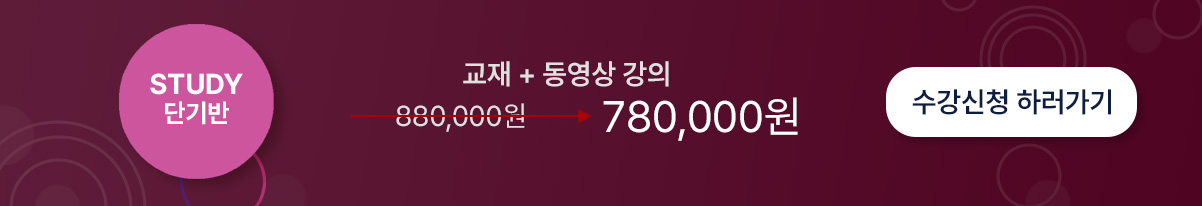
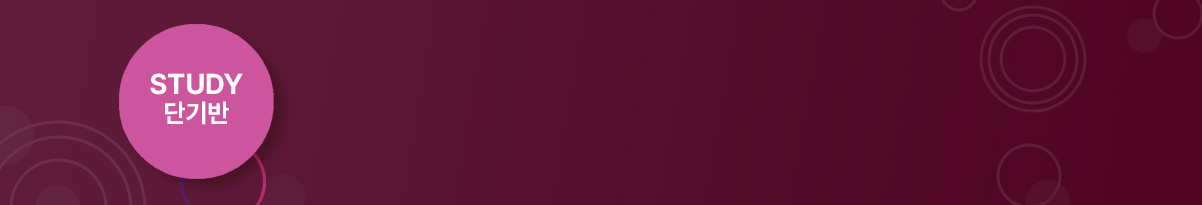
배너 수정

diff --git a/src/assets/scss/_partial/_apply_class.scss b/src/assets/scss/_partial/_apply_class.scss
@@ -1,78 +1,144 @@
-.apply-class{
-  .banners{
+.apply-class {
+  .banners {
     margin-top: 20px;
-    img{
+    img {
       width: 100%;
     }
-    ul>li{
-      a{
+    ul > li {
+      .class-banner {
+        position: relative;
         display: block;
-        line-height: 0;
+        color: #ffffff;
+        img {
+          width: 100%;
+          object-fit: contain;
+        }
+        .title {
+          position: absolute;
+          top: 20%;
+          left: 44%;
+          font-size: 11px;
+          font-weight: 600;
+        }
+        .price {
+          position: absolute;
+          top: 50%;
+          left: 30%;
+          .as-is {
+            font-size: 12px;
+            position: relative;
+            &:before {
+              content: "";
+              display: inline-block;
+              position: absolute;
+              width: 150%;
+              top: 50%;
+              left: -20%;
+              border-bottom: 1px solid red;
+            }
+            &:after {
+              content: "";
+              display: inline-block;
+              position: absolute;
+              top: calc(50% - 3px);
+              right: -45%;
+              width: 15px;
+              height: 5px;
+              border-top: 4px solid transparent;
+              border-bottom: 4px solid transparent;
+              border-left: 10px solid red;
+              box-sizing: border-box;
+            }
+          }
+          .to-be {
+            position: absolute;
+            left: 140%;
+            bottom: -17%;
+            font-size: 15px;
+            word-break: keep-all;
+          }
+        }
+        .btn-link {
+          position: absolute;
+          display: inline-flex;
+          border-radius: 30px;
+          width: 80px;
+          height: 23px;
+          align-items: center;
+          justify-content: center;
+          background-color: #ffffff;
+          font-size: 10px;
+          font-weight: 600;
+          right: 3%;
+          top: 50%;
+          transform: translateY(-50%);
+          color: #0d1e42;
+        }
       }
     }
   }
-  .table-default{
+  .table-default {
     margin-bottom: 10px;
-    .cell-phone{
+    .cell-phone {
       display: flex;
       align-items: center;
-      .input-wrap{
+      .input-wrap {
         flex: 1 1 25%;
-        input{
+        input {
           width: 100%;
         }
       }
-      .dash{
+      .dash {
         padding: 2px;
       }
     }
-    .class-period{
-      label{
+    .class-period {
+      label {
         display: block;
         padding-left: 0;
       }
     }
-    .price{
+    .price {
       display: flex;
       align-items: center;
       justify-content: space-between;
-      .discounted{
-        input{
+      .discounted {
+        input {
           color: $red;
         }
       }
     }
-    .select-certify{
+    .select-certify {
       display: flex;
       gap: 5px;
-      select{
+      select {
         flex: 1 1 auto;
       }
     }
-    .order-list{
+    .order-list {
       margin-left: 15px;
-      li{
+      li {
         text-indent: -15px;
         line-height: 1.4;
         margin-bottom: 5px;
       }
     }
   }
-  .term-text{
+  .term-text {
     text-align: center;
     word-break: keep-all;
     font-size: 16px;
-    line-height:1.4;
+    line-height: 1.4;
   }
-  .contract{
+  .contract {
     margin: 10px 0 20px;
     text-align: center;
-    .agree{
+    .agree {
       margin: 10px 0;
       font-weight: 700;
     }
   }
-  .notice-important{
+  .notice-important {
     color: $red;
   }
 }

diff --git a/assets/style/style_mobile.css b/assets/style/style_mobile.css
@@ -1318,9 +1318,75 @@ footer .info {
 .apply-class .banners img {
   width: 100%;
 }
-.apply-class .banners ul > li a {
+.apply-class .banners ul > li .class-banner {
+  position: relative;
   display: block;
-  line-height: 0;
+  color: #ffffff;
+}
+.apply-class .banners ul > li .class-banner img {
+  width: 100%;
+  object-fit: contain;
+}
+.apply-class .banners ul > li .class-banner .title {
+  position: absolute;
+  top: 20%;
+  left: 44%;
+  font-size: 11px;
+  font-weight: 600;
+}
+.apply-class .banners ul > li .class-banner .price {
+  position: absolute;
+  top: 50%;
+  left: 30%;
+}
+.apply-class .banners ul > li .class-banner .price .as-is {
+  font-size: 12px;
+  position: relative;
+}
+.apply-class .banners ul > li .class-banner .price .as-is:before {
+  content: "";
+  display: inline-block;
+  position: absolute;
+  width: 150%;
+  top: 50%;
+  left: -20%;
+  border-bottom: 1px solid red;
+}
+.apply-class .banners ul > li .class-banner .price .as-is:after {
+  content: "";
+  display: inline-block;
+  position: absolute;
+  top: calc(50% - 3px);
+  right: -45%;
+  width: 15px;
+  height: 5px;
+  border-top: 4px solid transparent;
+  border-bottom: 4px solid transparent;
+  border-left: 10px solid red;
+  box-sizing: border-box;
+}
+.apply-class .banners ul > li .class-banner .price .to-be {
+  position: absolute;
+  left: 140%;
+  bottom: -17%;
+  font-size: 15px;
+  word-break: keep-all;
+}
+.apply-class .banners ul > li .class-banner .btn-link {
+  position: absolute;
+  display: inline-flex;
+  border-radius: 30px;
+  width: 80px;
+  height: 23px;
+  align-items: center;
+  justify-content: center;
+  background-color: #ffffff;
+  font-size: 10px;
+  font-weight: 600;
+  right: 3%;
+  top: 50%;
+  transform: translateY(-50%);
+  color: #0d1e42;
 }
 .apply-class .table-default {
   margin-bottom: 10px;
